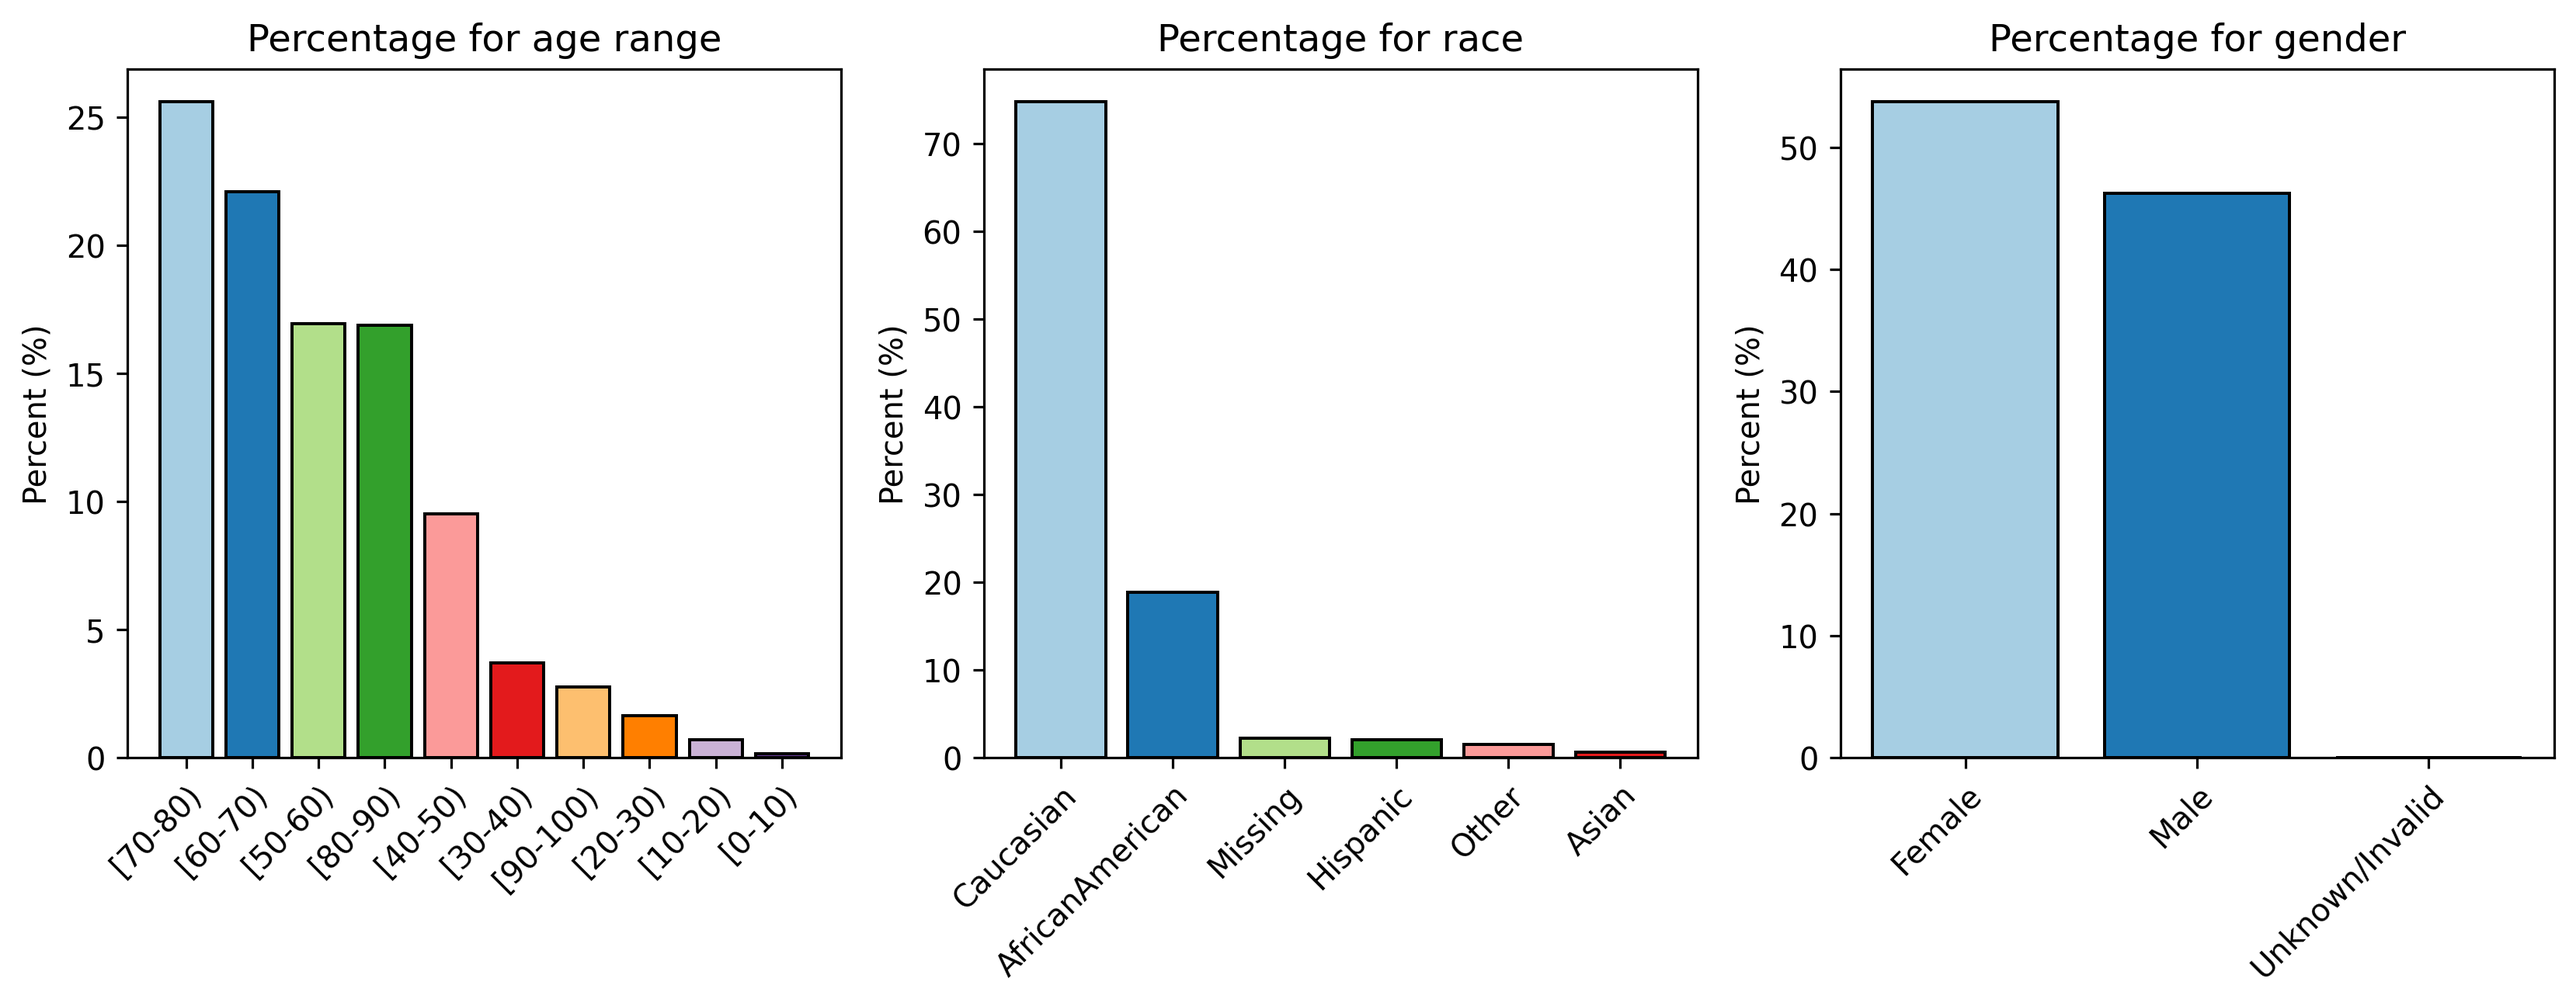
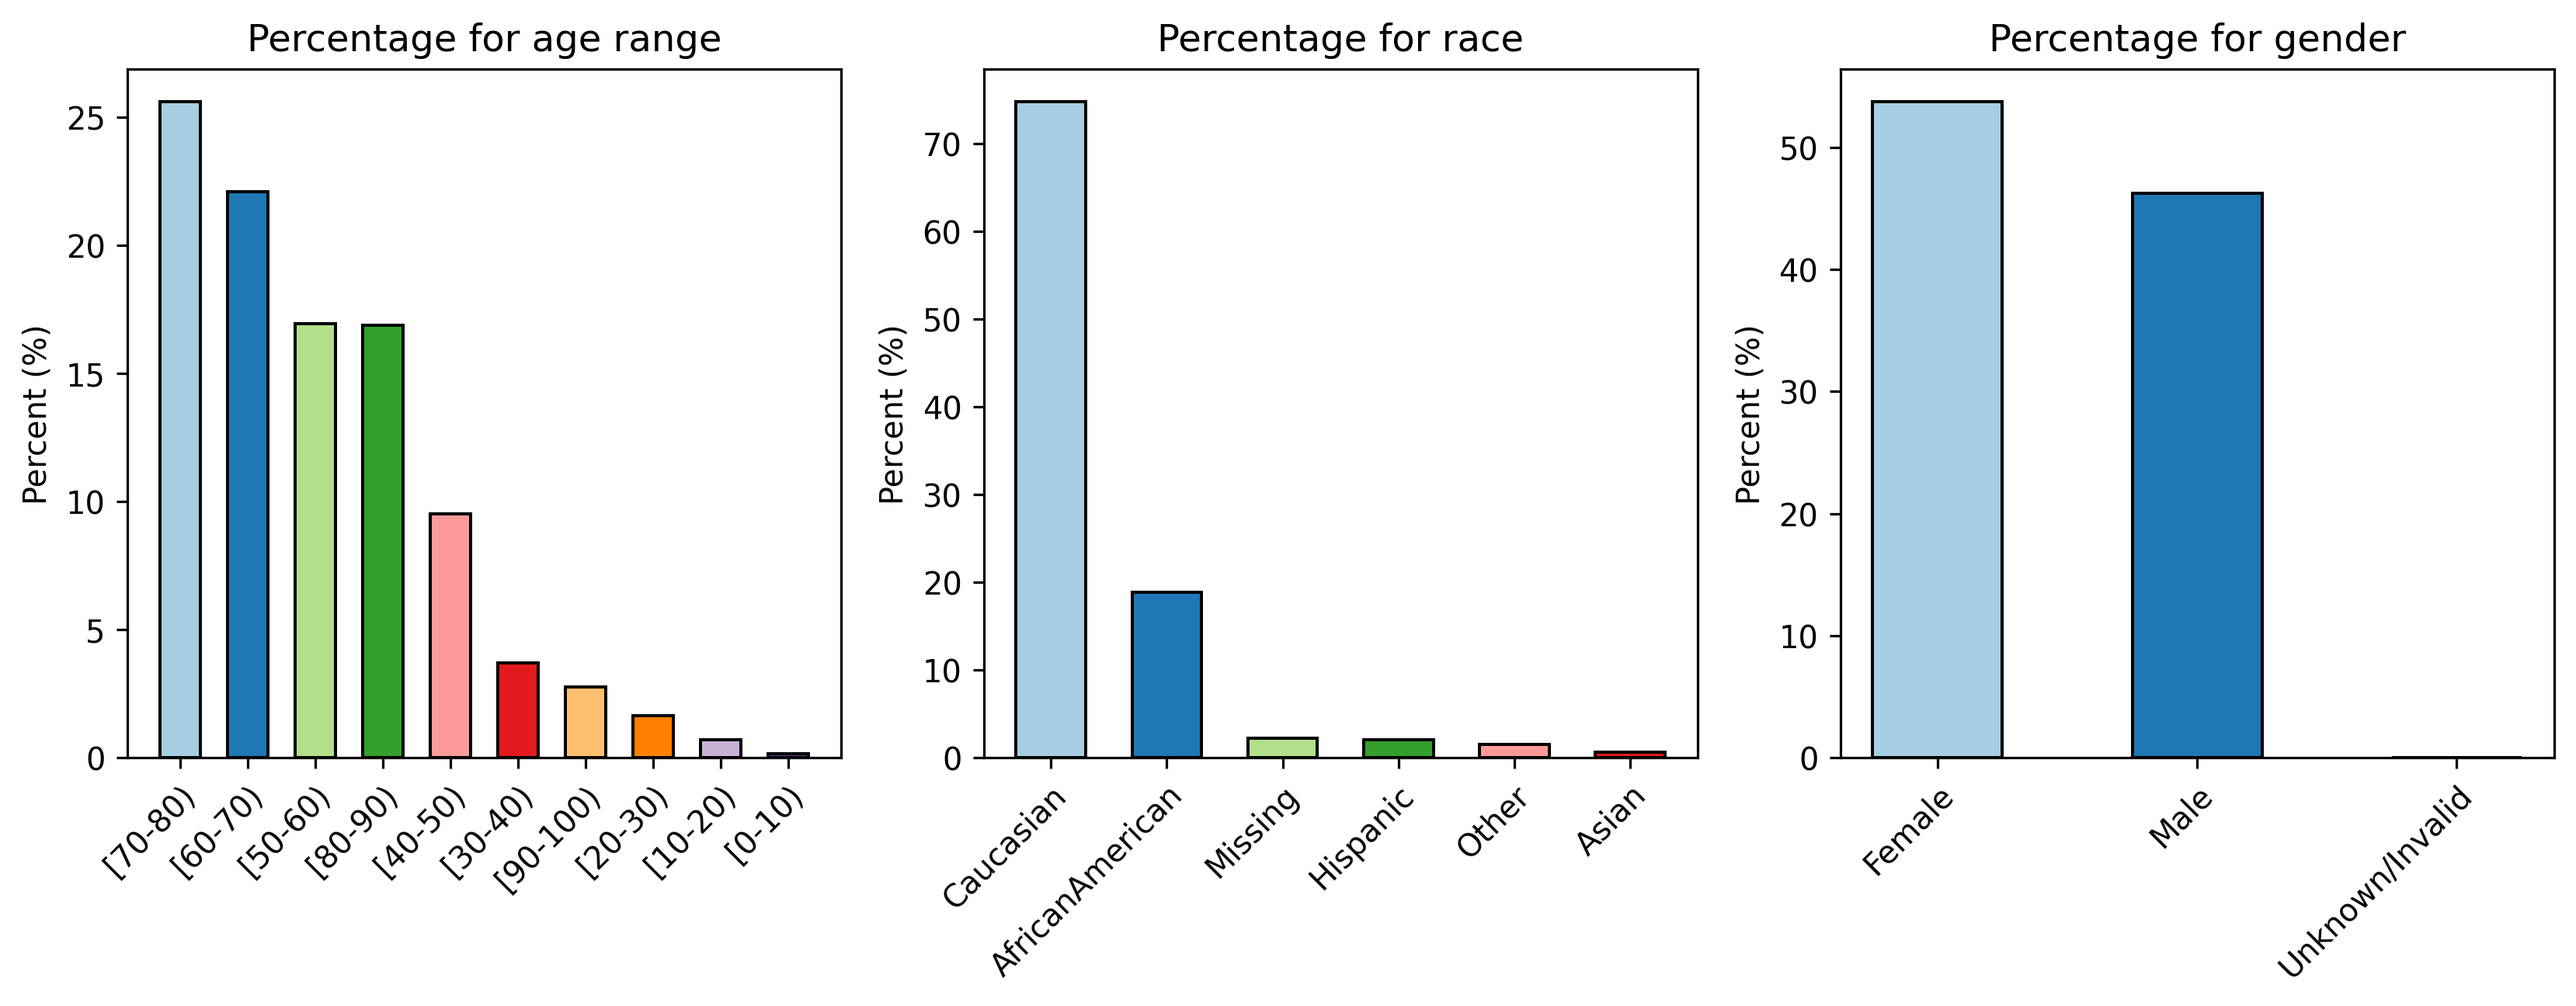
Consolidated age, race and gender plots

diff --git a/exploratory_data_analysis/age_race_gender.py b/exploratory_data_analysis/age_race_gender.py
@@ -7,7 +7,7 @@ from pathlib import Path
 
 home = os.environ['HOME']
 
-work_dir = Path(home) / 'Programming/Python/machine-learning-exercises/kaggle-notebooks/diabetes-in-130-US-hospitals/'
+work_dir = Path(home) / 'Programming/Python/machine-learning-exercises/diabetes-in-130-US-hospitals/'
 data_file = work_dir / 'data/diabetic_data.csv'
 
 df = pd.read_csv(data_file, na_values='?', low_memory=False)
@@ -32,10 +32,11 @@ df_list = [age_df, race_df, gender_df]
 title_list = ['Percentage for age range',
               'Percentage for race',
               'Percentage for gender']
+wd_list = [0.6, 0.6, 0.5]
 
 fig, axes = plt.subplots(1, 3, figsize=(14, 4))
-for ax, title, df in zip(axes, title_list, df_list):
-    ax.bar(df.iloc[:, 0], df.iloc[:, 1], color=plt.cm.Paired.colors, edgecolor='k')
+for ax, title, df, wd in zip(axes, title_list, df_list, wd_list):
+    ax.bar(df.iloc[:, 0], df.iloc[:, 1], color=plt.cm.Paired.colors, edgecolor='k', width=wd)
     plt.setp(ax.get_xticklabels(), ha="right", rotation_mode="anchor", rotation=45, fontsize=10)
     plt.setp(ax.get_yticklabels(), fontsize=10)
     ax.set_ylabel('Percent (%)', fontsize=10)
